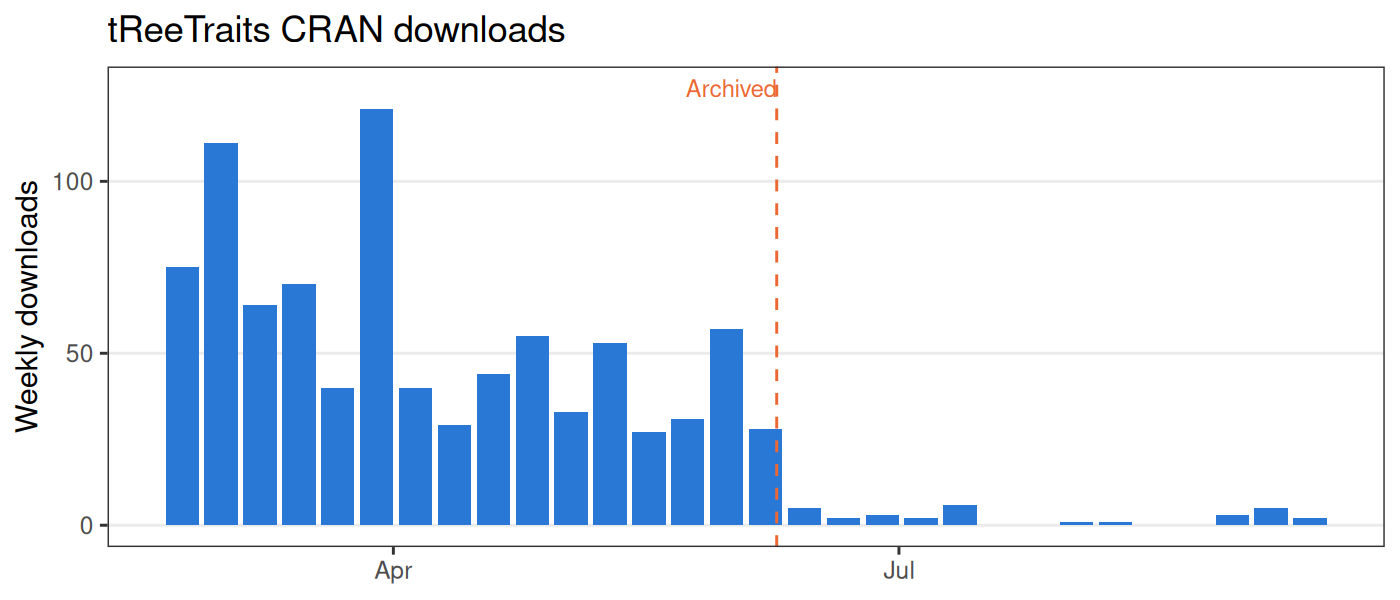
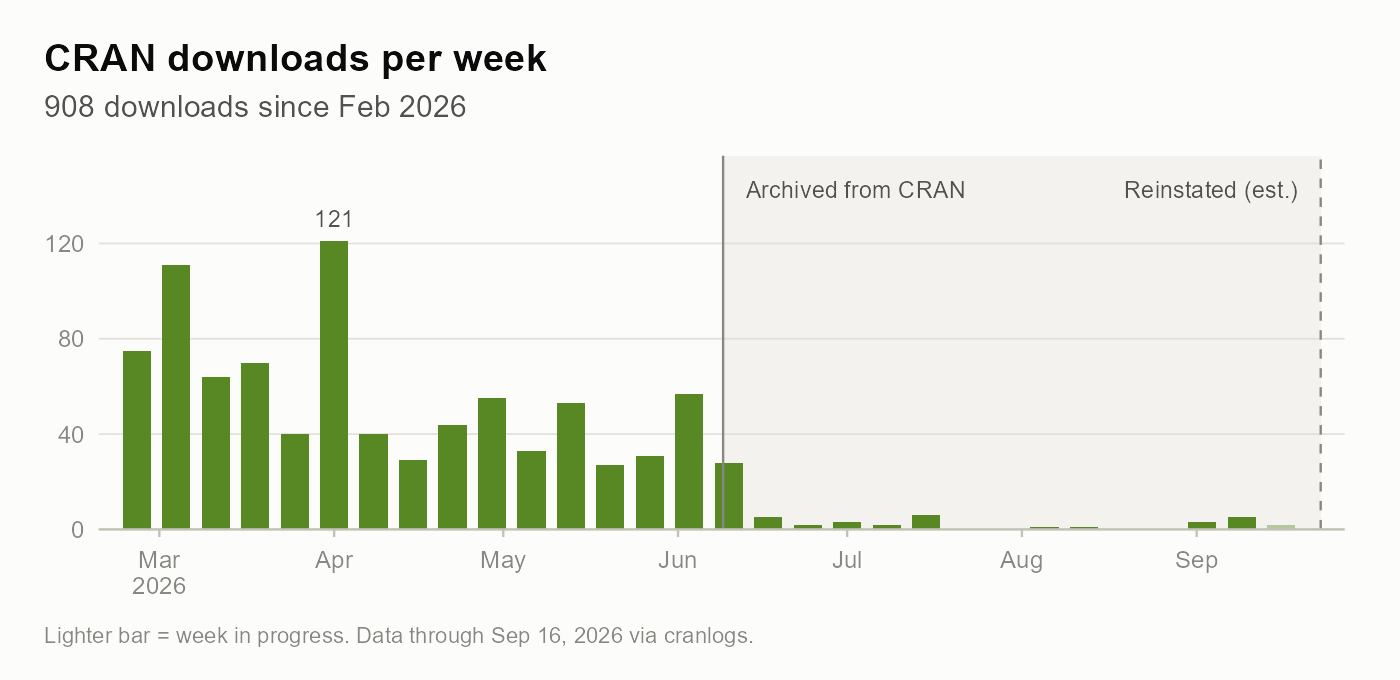
Restyle downloads figure and move it to the bottom of the README
Green bars (crown-hull green from get_lacunarity.JPG), monthly x-axis
ticks with the year, lighter in-progress week, peak label, and a shaded
archived period with an estimated reinstatement marker. The figure now
sits in a Downloads section at the end of the README.

reinstated_date in dev.R is an estimate (2026-09-23); update it and set
reinstated_estimated to FALSE once 0.1.3 is accepted.

diff --git a/README.md b/README.md
@@ -10,10 +10,6 @@
 
 It combines functionality from multiple tools including [TreeQSM](https://github.com/InverseTampere/TreeQSM/), [PyTLidar](https://github.com/Landscape-CV/PyTLiDAR), [lidR](https://r-lidar.github.io/lidRbook/), [spanner](https://github.com/bi0m3trics/spanner), and follows methods described in Cannon et al. (in prep).
 
-<img src="man/figures/downloads.png" width="500"/>
-
-Weekly CRAN downloads (source: [cranlogs](https://cranlogs.r-pkg.org/); regenerate with `dev.R`).
-
 ------------------------------------------------------------------------
 
 ## ✨ Features
@@ -262,3 +258,11 @@ basics_diagnostic_plot(las, height=24.1, cbh=13.9, crown_width=2.29, dbh=0.329, 
 ## 📖 Citation
 
 The `treeTraits` package is associated with Cannon et al. (in press) XXXX. Please return at a later date for a full citation.
+
+------------------------------------------------------------------------
+
+## 📈 Downloads
+
+<img src="man/figures/downloads.png" width="650"/>
+
+Updated weekly from [cranlogs](https://cranlogs.r-pkg.org/) by a GitHub Action (`dev.R`).
